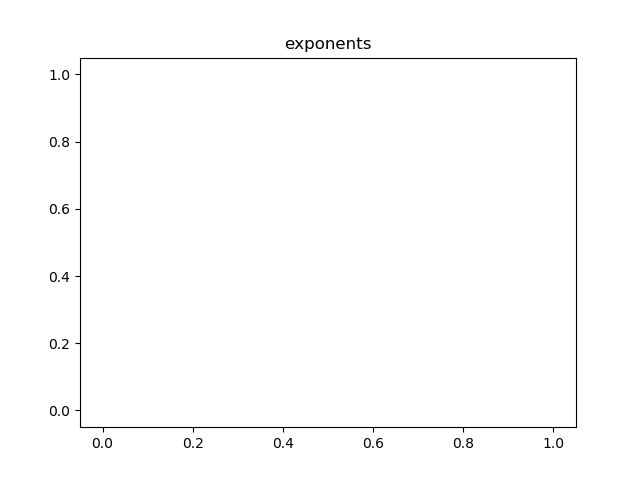
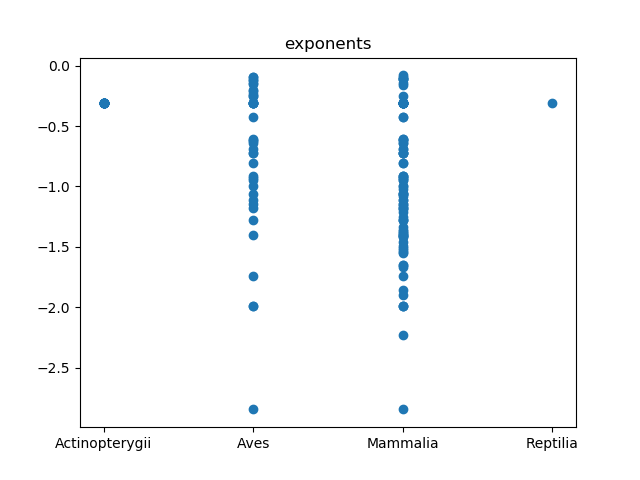
log plots

diff --git a/Python_files/download_data_inaki.py b/Python_files/download_data_inaki.py
@@ -109,6 +109,8 @@ def read_animals_database():
                     di['exponent'] = None
                     di['intercept'] = None
                     di['r2'] = None
+                    di['koadrila_tensor'] = None
+                    di['koadrila_indices'] = None
                     networks.append(di)
      
 
@@ -140,7 +142,8 @@ def read_animals_database():
         'group': 'NoGroup',
         'subgroup': 'NoSubgroup',
         'ego_net': None, # these are set up later
-        'ego_net_std':None})               
+        'ego_net_std':None,
+        'exponent':None})               
     
     df_networks = pd.DataFrame(networks)
                     
@@ -194,6 +197,29 @@ def plot_ego_barplot(ego_array, std, title):
     plt.bar(x=np.arange(1,ego_array.shape[0]+1), height=ego_array, yerr=std)
     plt.title(title)
     
+def plot_ego_log_scale(ego_array, label, taxa):
+    if taxa == 'Actinopterygii':
+        positioner = (0,0)
+    elif taxa == 'Aves':
+        positioner = (0,1)
+    elif taxa == 'Reptilia':
+        positioner = (0,2)
+    elif taxa == 'Insecta':
+        positioner = (1,0)
+    elif taxa == 'Mammalia':
+        positioner = (1,1)
+        
+    taxa_color = {'Actinopterygii': 'blue', 'Aves': 'orange', 'Insecta':'black', 'Mammalia':'red', 'Reptilia':'green' }
+    ax[positioner].semilogy(ego_array, 'x', label=taxa, color=taxa_color[taxa], alpha=0.9 if taxa=='Actinopterygii' else 0.3)
+    ax[positioner].set_ylim([1e-6, 1])
+    ax[positioner].set_xlim([0,110])
+    ax[positioner].set_title(taxa)
+    
+def legend_without_duplicate_labels(ax):
+    handles, labels = ax.get_legend_handles_labels()
+    unique = [(h, l) for i, (h, l) in enumerate(zip(handles, labels)) if l not in labels[:i]]
+    ax.legend(*zip(*unique))
+    
 def plot_exponents(df_nets):
     plt.figure()
     plt.title('exponents')
@@ -233,6 +259,24 @@ def exponent_linear_regression(ego_values):
     return slope, intercept, r_squared
 
 
+# Made-up koadrila coefficient tensor and index
+def koadrila(G):
+    
+    W = nx.to_numpy_array(G) # Weighted adjacency matrix
+    K = np.zeros(shape=(W.shape[0], W.shape[0], W.shape[0])) # 3d tensor
+    for (i,j,k), _ in np.ndenumerate(K):
+        if W[i,j] == 0 or W[i,k] == 0:
+            K[i,j,k] = -1 # No defined for those 
+        if i != j and i != k:
+            K[i,j,k] = 2 * W[j,k] / (W[i,j] + W[i,k])
+        else:
+            continue # defaults to 0
+    
+    koadrila_index = [0] * W.shape[0]
+    for i, Ki in enumerate(K):
+        koadrila_index[i] = np.mean(Ki[Ki>0])
+    
+    return K, koadrila_index
 
 """
 #####
@@ -245,6 +289,9 @@ for index, row in df_nets.iterrows():
     ego_net, ego_net_std = get_ego_matrix(row['graph']) # Some are empty, so normalization throws error. Check!!
     df_nets['ego_net'].values[index] = ego_net
     df_nets['ego_net_std'].values[index] = ego_net_std
+    k_t, k_i = koadrila(row['graph'])
+    # df_nets['koadrila_tensor'].values[index] = k_t
+    # df_nets['koadrila_indices'].values[index] = k_i
 
 # Loop over species. Implemented computations:
 ##### - Ego network plots (over a hunderd in total)
@@ -254,6 +301,7 @@ PLOT_EGO = True
 
 plt.close('all')
 species_labels = df_nets.species.unique()
+fig,ax = plt.subplots(2,3)
 
 for s in species_labels:
     if 'ants' in s or 'beetle' in s or 'baboon_association' in s or 'voles' in s or 'tortoise' in s: # Skip ants, beetles, baboons, voles and tortoises for now. Problem: measurements of same colony (group) for different days (subgroups) have different amount of individuals
@@ -281,15 +329,19 @@ for s in species_labels:
             
             # Plot
             if PLOT_EGO:
+                
                 if not np.any(ego_std_group): # if std at the group level is zero, i.e., if there are no groups
-                    plot_ego_barplot(ego_mean, std=ego_net_stds_vstack, title=s + group)
+                    # plot_ego_barplot(ego_mean, std=ego_net_stds_vstack, title=s + group)
+                    plot_ego_log_scale(ego_mean, label=s+group, taxa=df_species.taxa.values[0] )
                 else: # if more than one group, plot group-wise std. Here group means  a bunch of measurements of a same species with same relevant attributes.
-                    plot_ego_barplot(ego_mean, std=ego_std_group, title=s + group)
+                    # plot_ego_barplot(ego_mean, std=ego_std_group, title=s + group)
+                    plot_ego_log_scale(ego_mean, label=s+group, taxa=df_species.taxa.values[0])
             else:
                 continue
         except:
             print('>>>>>>>> ERROR in {} species. Probably, there is a mismatch in number of individuals accross measurements'.format(s))
             continue
+# legend_without_duplicate_labels(ax)
         
 # plot the ones excluded above one by one
 # ant_colony = df_nets[df_nets['group'] == 'colony6']
@@ -303,24 +355,7 @@ for s in species_labels:
 plot_exponents(df_nets)
 
 
-# Koadrila coefficient tensor and index
-def koadrila(G):
-    
-    W = nx.to_numpy_array(G) # Weighted adjacency matrix
-    K = np.zeros(shape=(W.shape[0], W.shape[0], W.shape[0])) # 3d tensor
-    for (i,j,k), _ in np.ndenumerate(K):
-        if W[i,j] == 0 or W[i,k] == 0:
-            K[i,j,k] = -1 # No defined for those 
-        if i != j and i != k:
-            K[i,j,k] = 2 * W[j,k] / (W[i,j] + W[i,k])
-        else:
-            continue # defaults to 0
-    
-    koadrila_index = [0] * W.shape[0]
-    for i, Ki in enumerate(K):
-        koadrila_index[i] = np.mean(Ki[Ki>0])
-    
-    return K, koadrila_index
+
                 
         
         

diff --git a/Python_files/abm.py b/Python_files/abm.py
@@ -44,9 +44,9 @@ def get_ego(A):
     
     return group_mean_array, group_std_array
 
-def plot_ego_barplot(ego_array, std, title):
+def plot_ego_barplot(ego_array, std, title, color='blue'):
     plt.figure()
-    plt.bar(x=np.arange(1,ego_array.shape[0]+1), height=ego_array, yerr=std)
+    plt.bar(x=np.arange(1,ego_array.shape[0]+1), height=ego_array, yerr=std, color=color)
     plt.title(title)
     
     
@@ -85,7 +85,7 @@ np.fill_diagonal(proximity_adj_matrix, 0) # Remove self-loops
         
 # ego data
 ego_mean, ego_std = get_ego(proximity_adj_matrix)
-plot_ego_barplot(ego_mean, ego_std, title='random agents')
+# plot_ego_barplot(ego_mean, ego_std, title='random agents')
 
 
 """
@@ -94,9 +94,9 @@ Random array measurements
 random_array = np.random.rand(N_AGENTS, N_AGENTS)
 np.fill_diagonal(random_array, 0)
 rnd_ego_mean, rnd_ego_std = get_ego(random_array)
-plot_ego_barplot(rnd_ego_mean, rnd_ego_std, title='random uniform array')
+plot_ego_barplot(rnd_ego_mean, rnd_ego_std, title='random uniform array', color='green')
 
-normal_array = np.random.normal(loc=1, scale=0.2, size=(N_AGENTS, N_AGENTS))
+normal_array = np.random.normal(loc=1, scale=0.5, size=(N_AGENTS, N_AGENTS))
 np.fill_diagonal(normal_array, 0)
 normal_ego_mean, normal_ego_std = get_ego(normal_array)
-plot_ego_barplot(normal_ego_mean, normal_ego_std, title='random normal array')
+plot_ego_barplot(normal_ego_mean, normal_ego_std, title='random normal array', color='orange')
